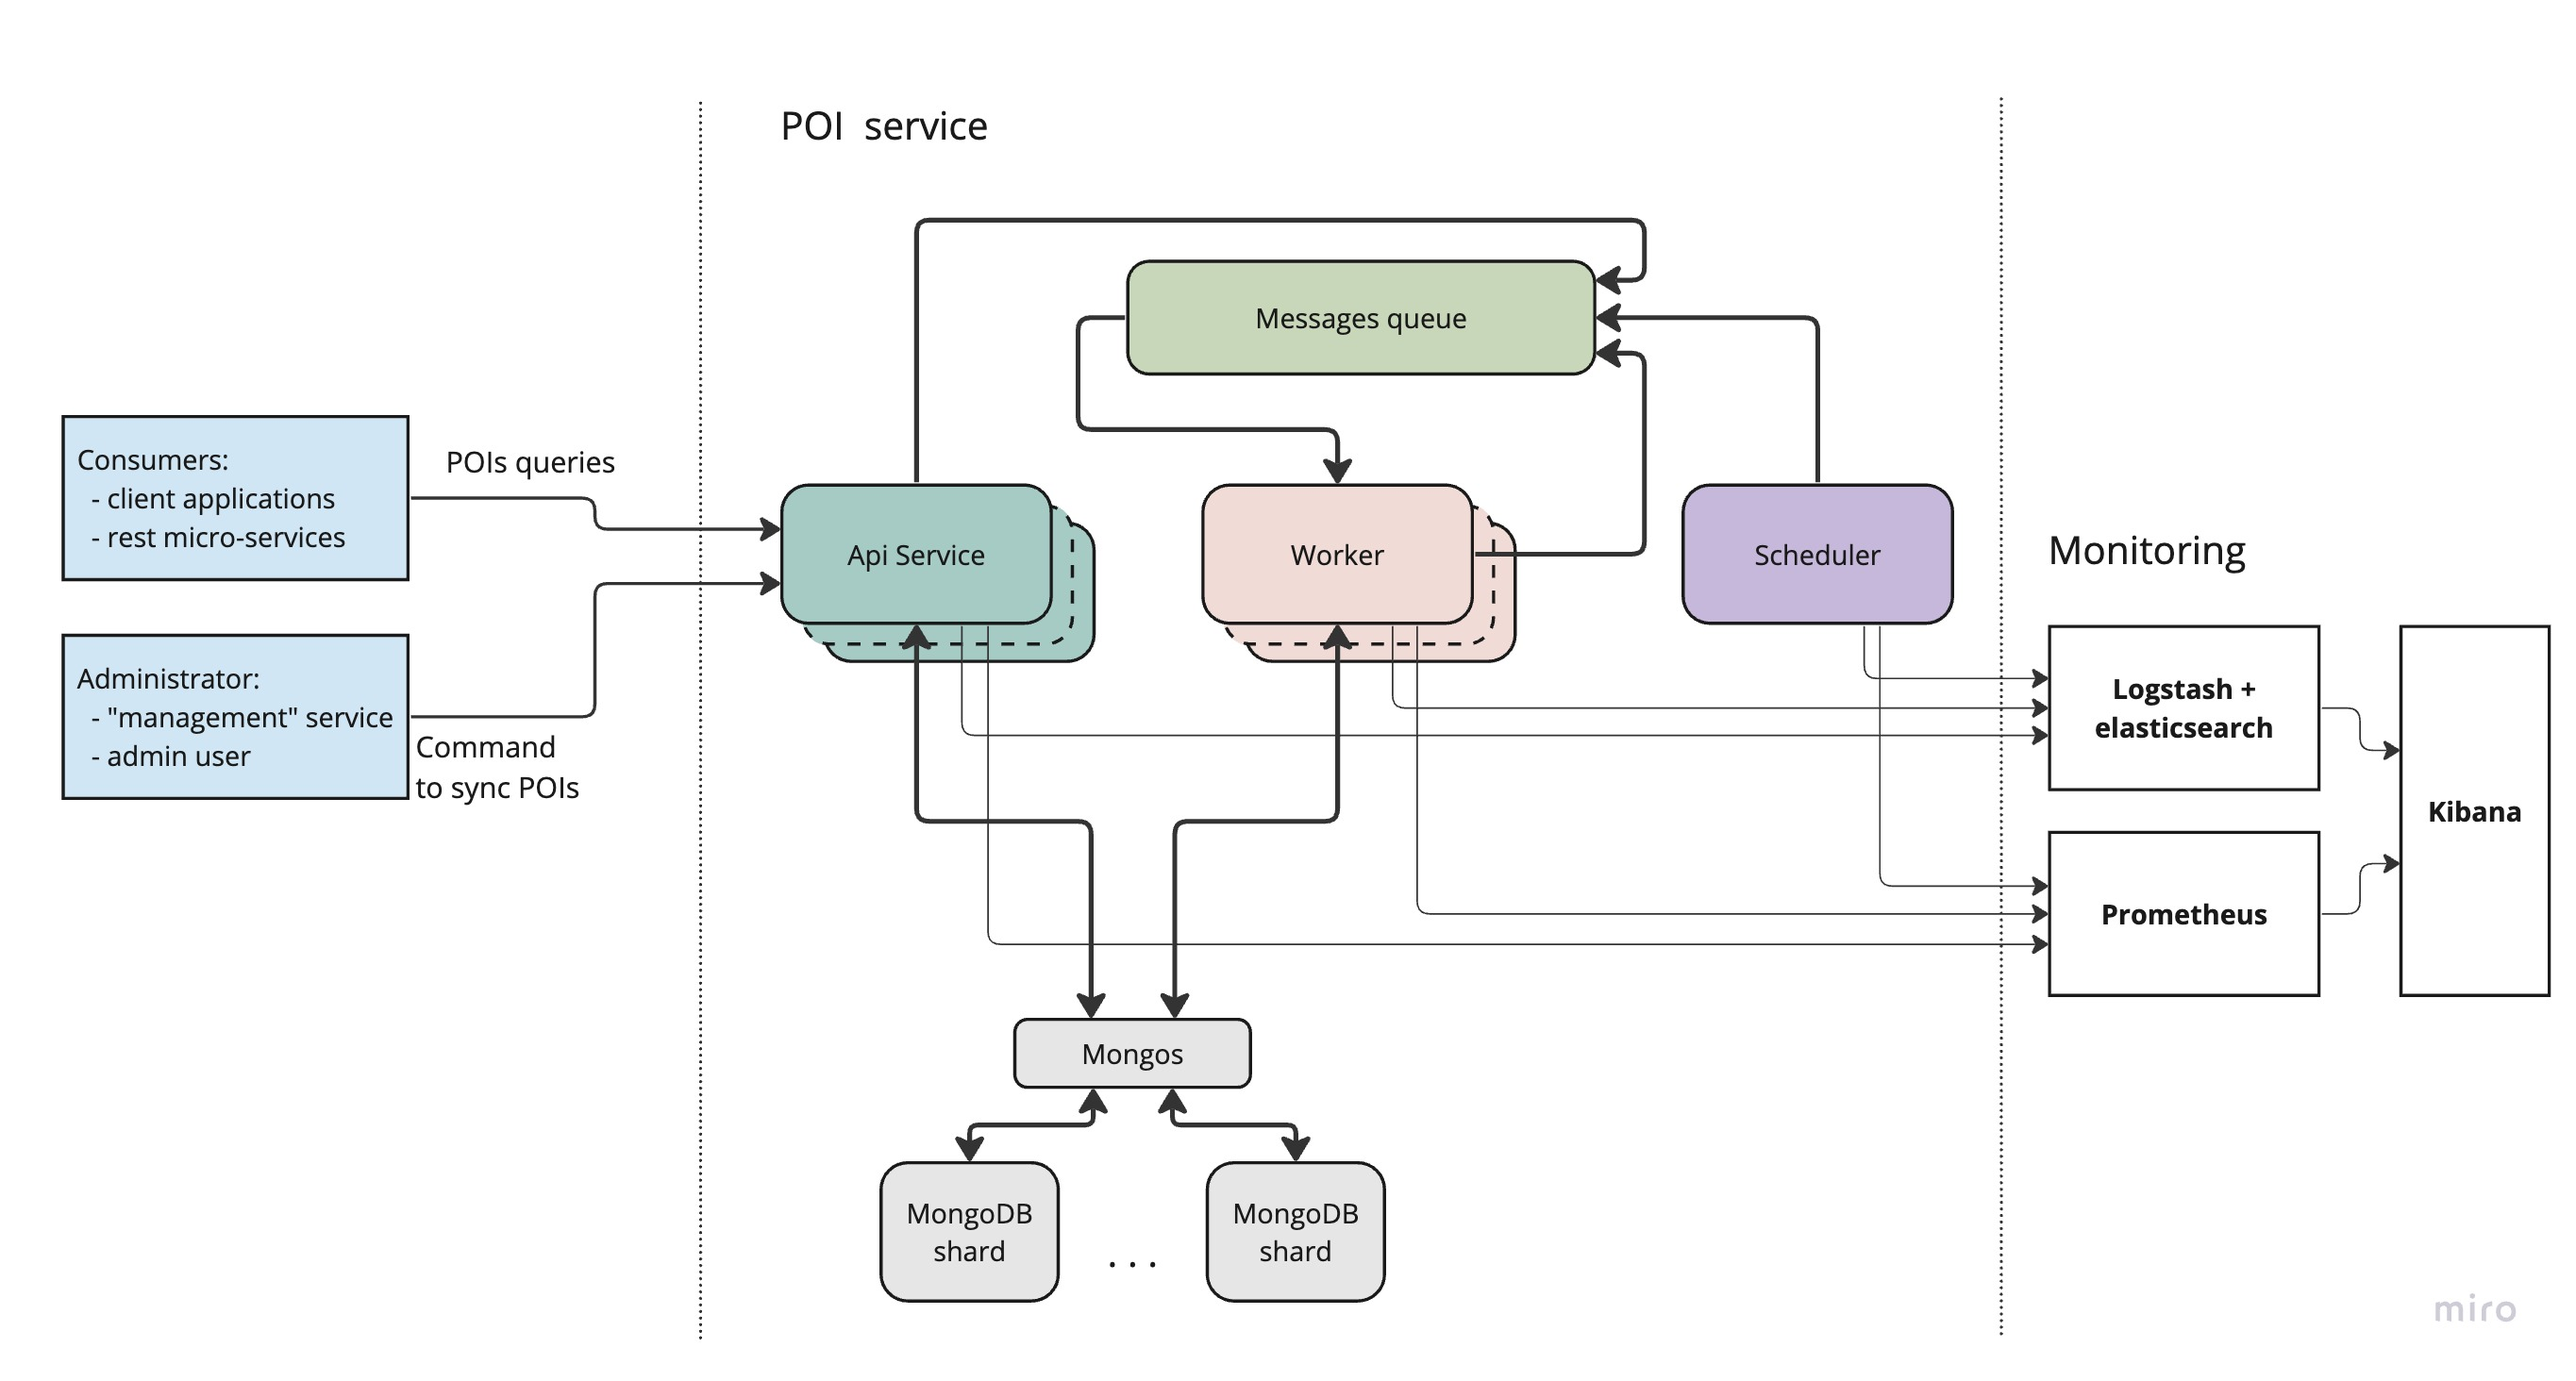
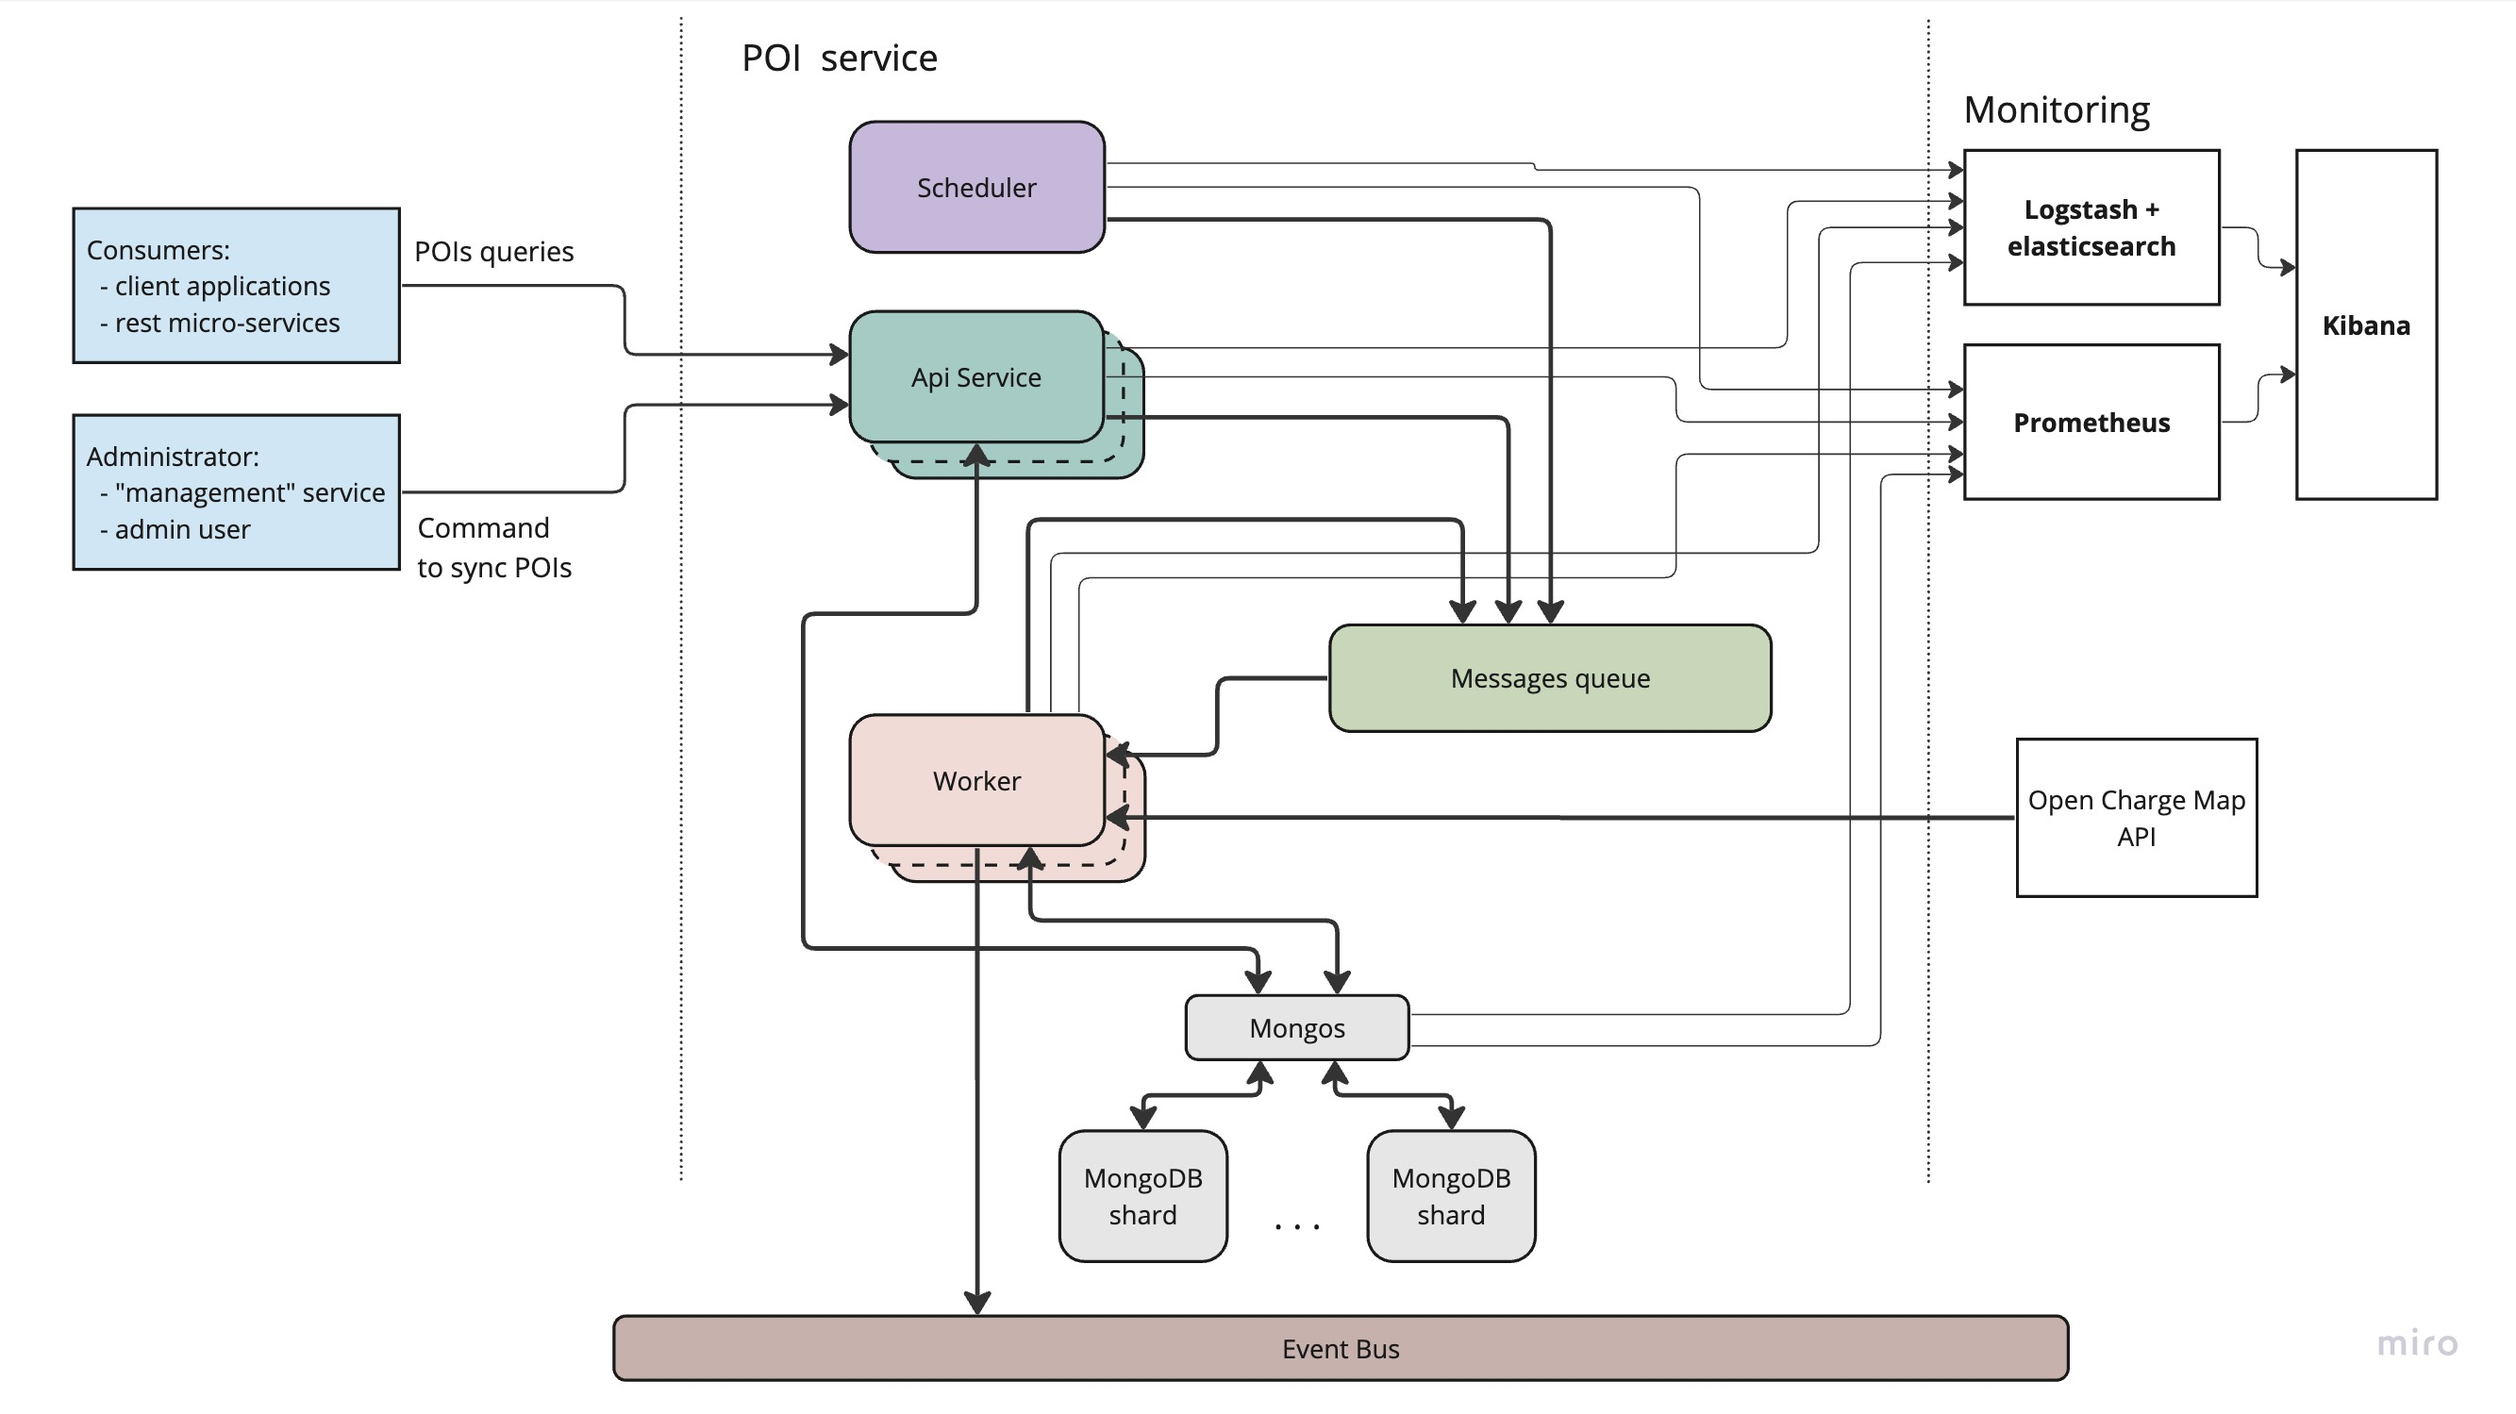
encance architecture high level documentation

diff --git a/documentation/ARCHITECTURE.md b/documentation/ARCHITECTURE.md
@@ -2,12 +2,52 @@
 
 ![High-level architectural diagram](./high-level-architecture.jpg)
 
-* *API service*. TODO: provides detailed description for this lightweight service, that it provides interfaces to query POI data + trigger new command to import/synchronize POI for new region.
-* *Worker*. TODO: provides detailed description for the service that it contains main logic to import POI data in the background and asynchronously
-* *Scheduler*. TODO: provides detailed description for the scheduler that it should be deployed only as a single instance, periodically triggers commands to import/synchronize POI data based on config (provide several options...)
-* *Messages queue*. TODO: add description and requirements to it
-* *MongoDB*. TODO: add description and requirements to it
-* *Monitoring*. TODO: add description and requirements to it
+## POI import service parts
 
-// TODO: add event bus or messages bus to notify that POI is synced
-// TODO: add ideas and its description how to improve or develop current implementation
+### Api service
+
+*Api service* offers a lightweight and stateless solution, providing interfaces for querying point of interest (POI) data using graphQL. It also enables the initiation of new commands to import and synchronize POI data for new regions. Its simplicity and lack of state dependence make it easily scalable horizontally, capable of handling a high volume of requests with ease.
+
+### Scheduler
+
+The scheduler service is designed to be deployed as a singular instance and is responsible for periodically triggering commands to import and synchronize point of interest (POI) data based configuration. 
+Possible configuration implementation:
+- environment variable
+- configuration in database & admin interface to manage it
+
+### Worker
+
+The Worker service is the key part of importing POI data. The service has the capability to generate multiple subtasks as part of the import process, and subsequently enqueueing them for processing. The asynchronous execution of tasks in the background ensures seamless performance without interrupting other processes.
+
+In the case of an error, the task handler incorporates a retry strategy, guaranteeing robustness and minimal disruption to operations. This proves particularly valuable in maintaining data integrity and ensuring a consistent user experience.
+
+Furthermore, the scalability of the Worker service is a key asset, as it allows for the deployment of multiple instances to boost productivity. This flexibility enables the system to adapt to varying workloads and accommodate growing demands without sacrificing performance.
+
+### Messages queue
+
+The data import tasks are managed and executed using a message queue, leveraging the efficient and reliable [Redis](https://redis.io/) database and [BullMQ](https://docs.bullmq.io/) library. This architecture ensures optimal performance and seamless processing of import tasks.
+
+> [!NOTE]
+> Another messages queue can be used based on current tech stack used in the project.
+
+> [!TIP]
+> // TODO: describe the idea that dynamic queues can be used to handle the moment when "certain import" process if finished
+
+### MongoDB
+
+// TODO: add database overall description and why mongo db is best choice here
+
+## Event bus
+
+The event bus is main broadcaster to notify within the application, specifically regarding the creation or update of POIs. This ensures seamless communication and synchronization across different parts of the application.
+
+## Monitoring
+
+Every part of the **POI import service** logs internal processes, including incoming requests, task execution start and end times, as well as any encountered errors. These logs are channeled through logstash, preserved, indexed, and effortlessly retrievable via elasticsearch in Kibana. This streamlined process ensures transparent and accountable monitoring and troubleshooting of system activities.
+
+Furthermore, each service component must provide a health-check to ascertain the service's operational status. This feature is essential for ensuring the reliability and efficiency of the import service by enabling proactive monitoring of its overall health and wellbeing.
+In addition to the basic availability of the service itself, health-check must check for the availability of the resources used, such as the database, messages queue, etc.
+
+Kibana allows to configure alerts based on logs and statistics from Prometheus. This empowers proactive monitoring and swift response to critical events, further enhancing the reliability and stability of the import service.
+
+## [Open Charge Map](https://openchargemap.org/site) and it's [API](https://openchargemap.org/site/develop/api)
